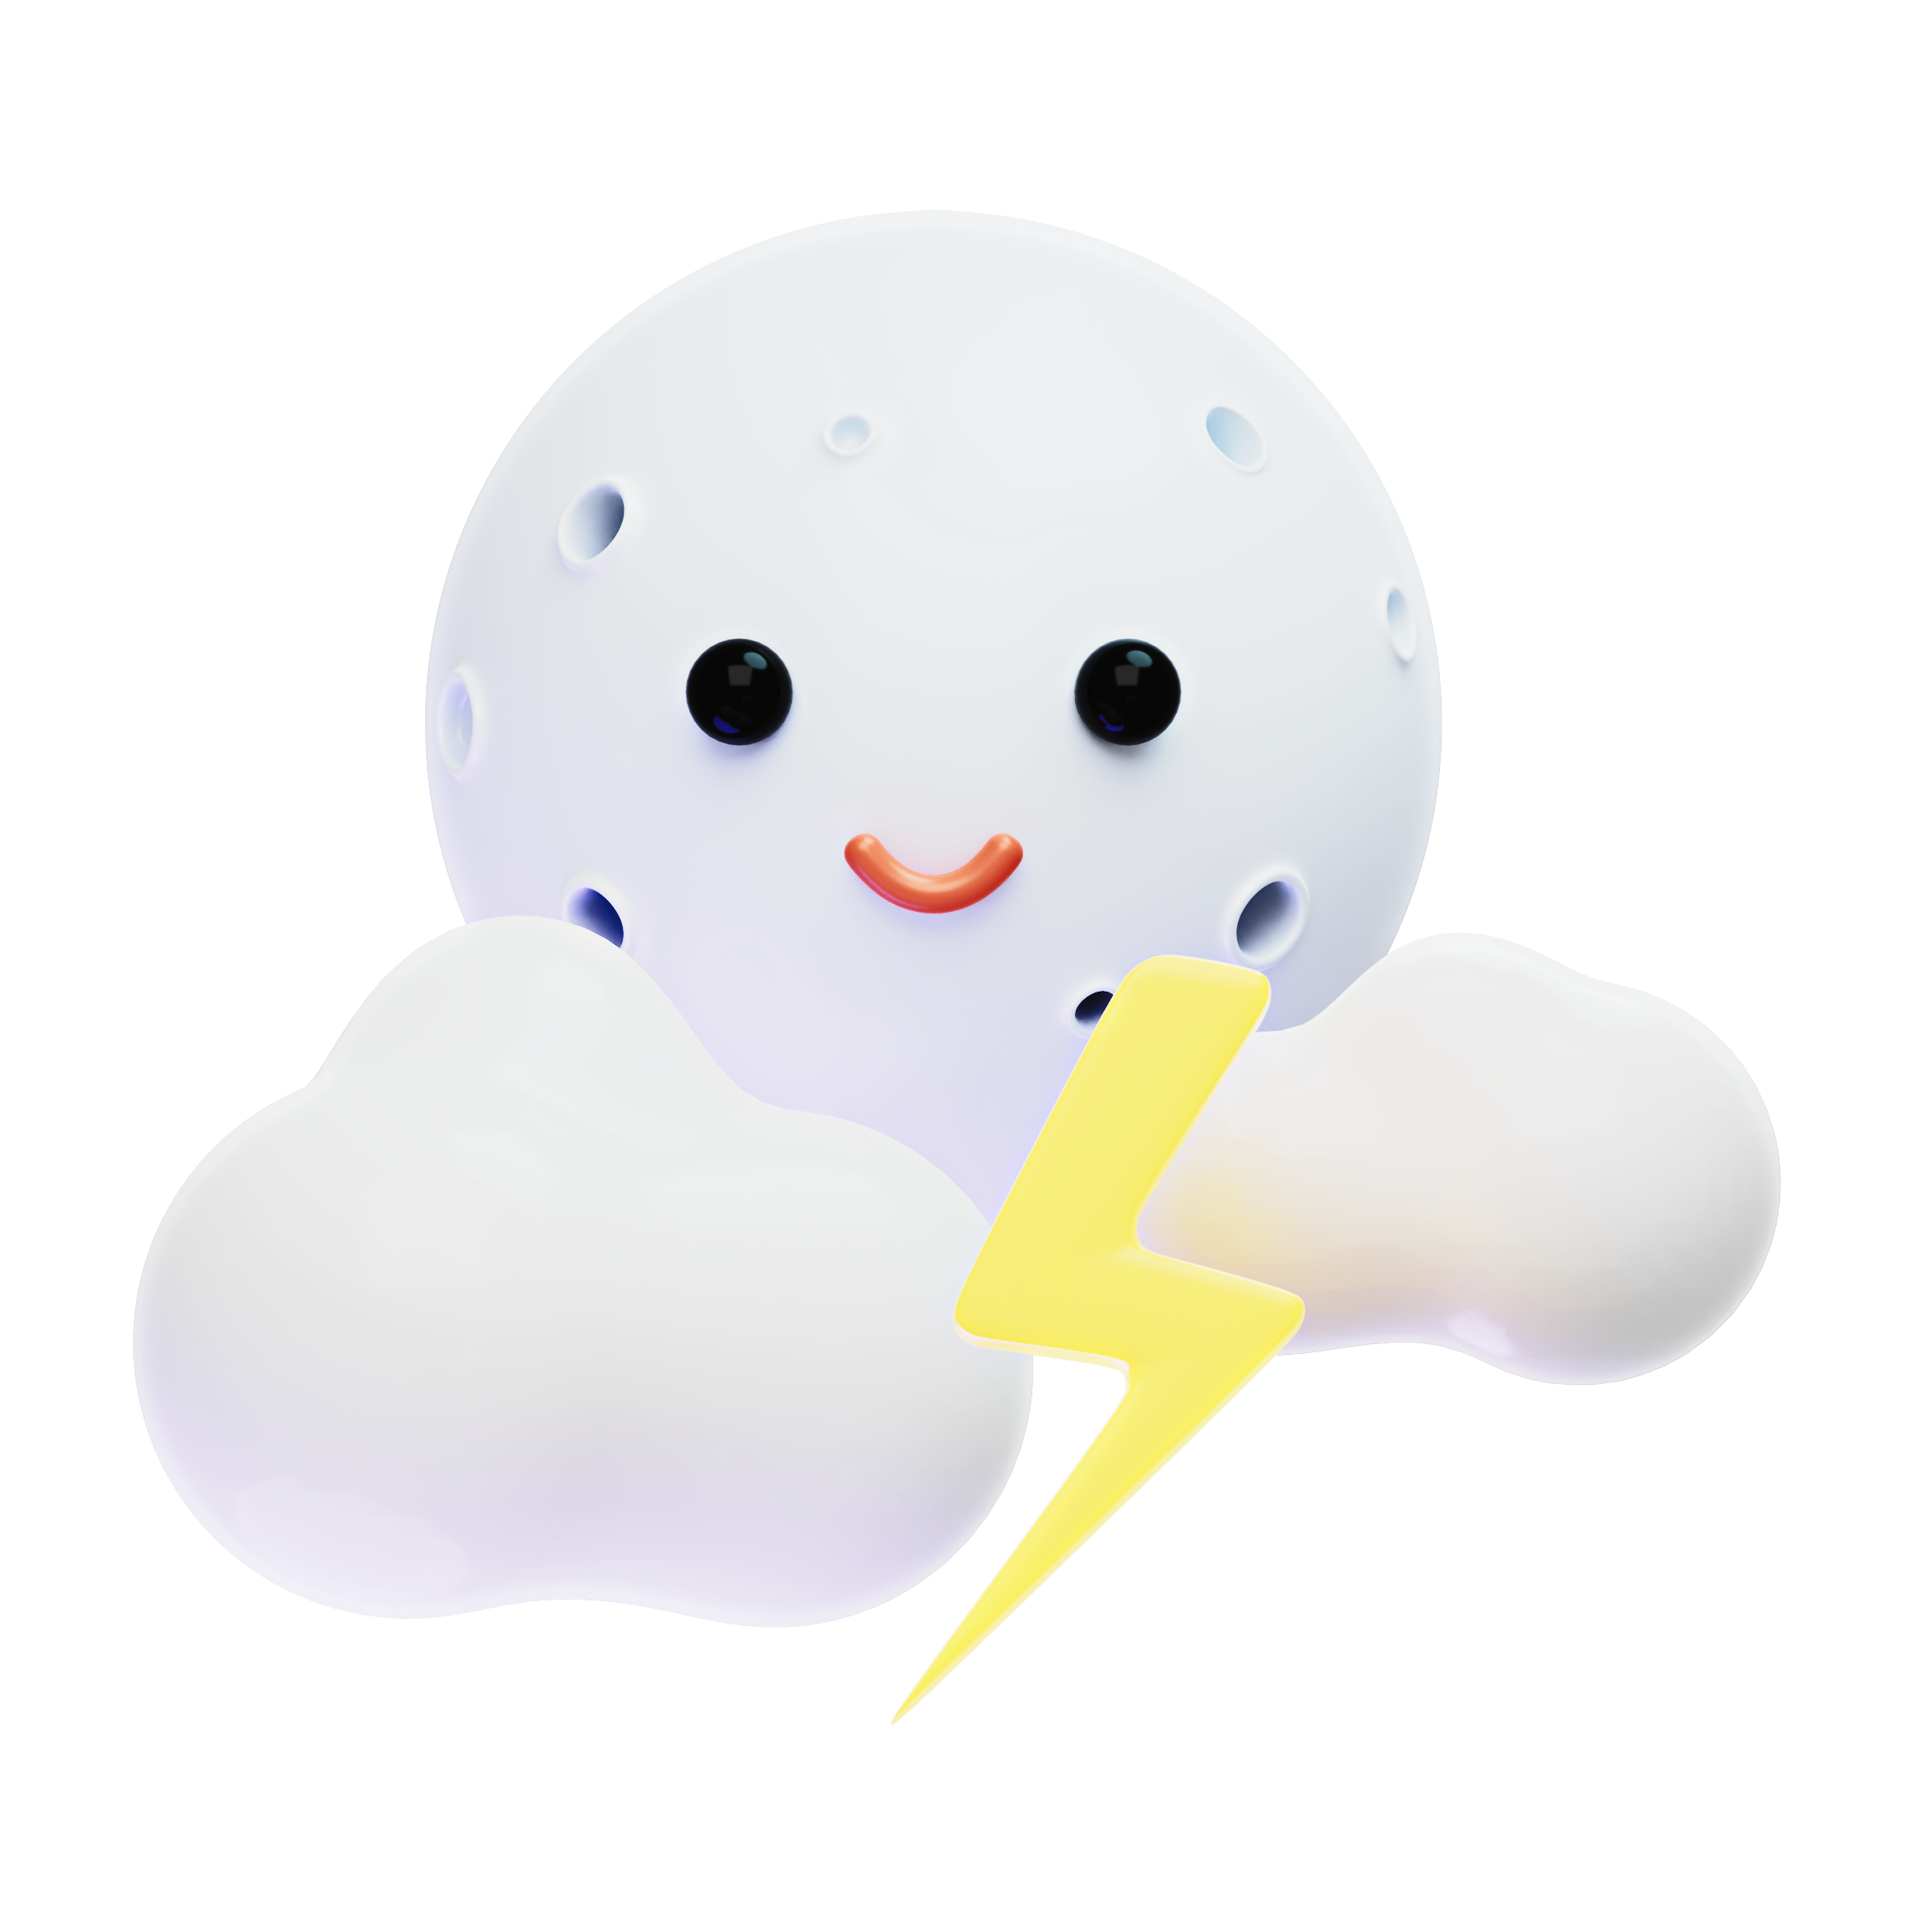
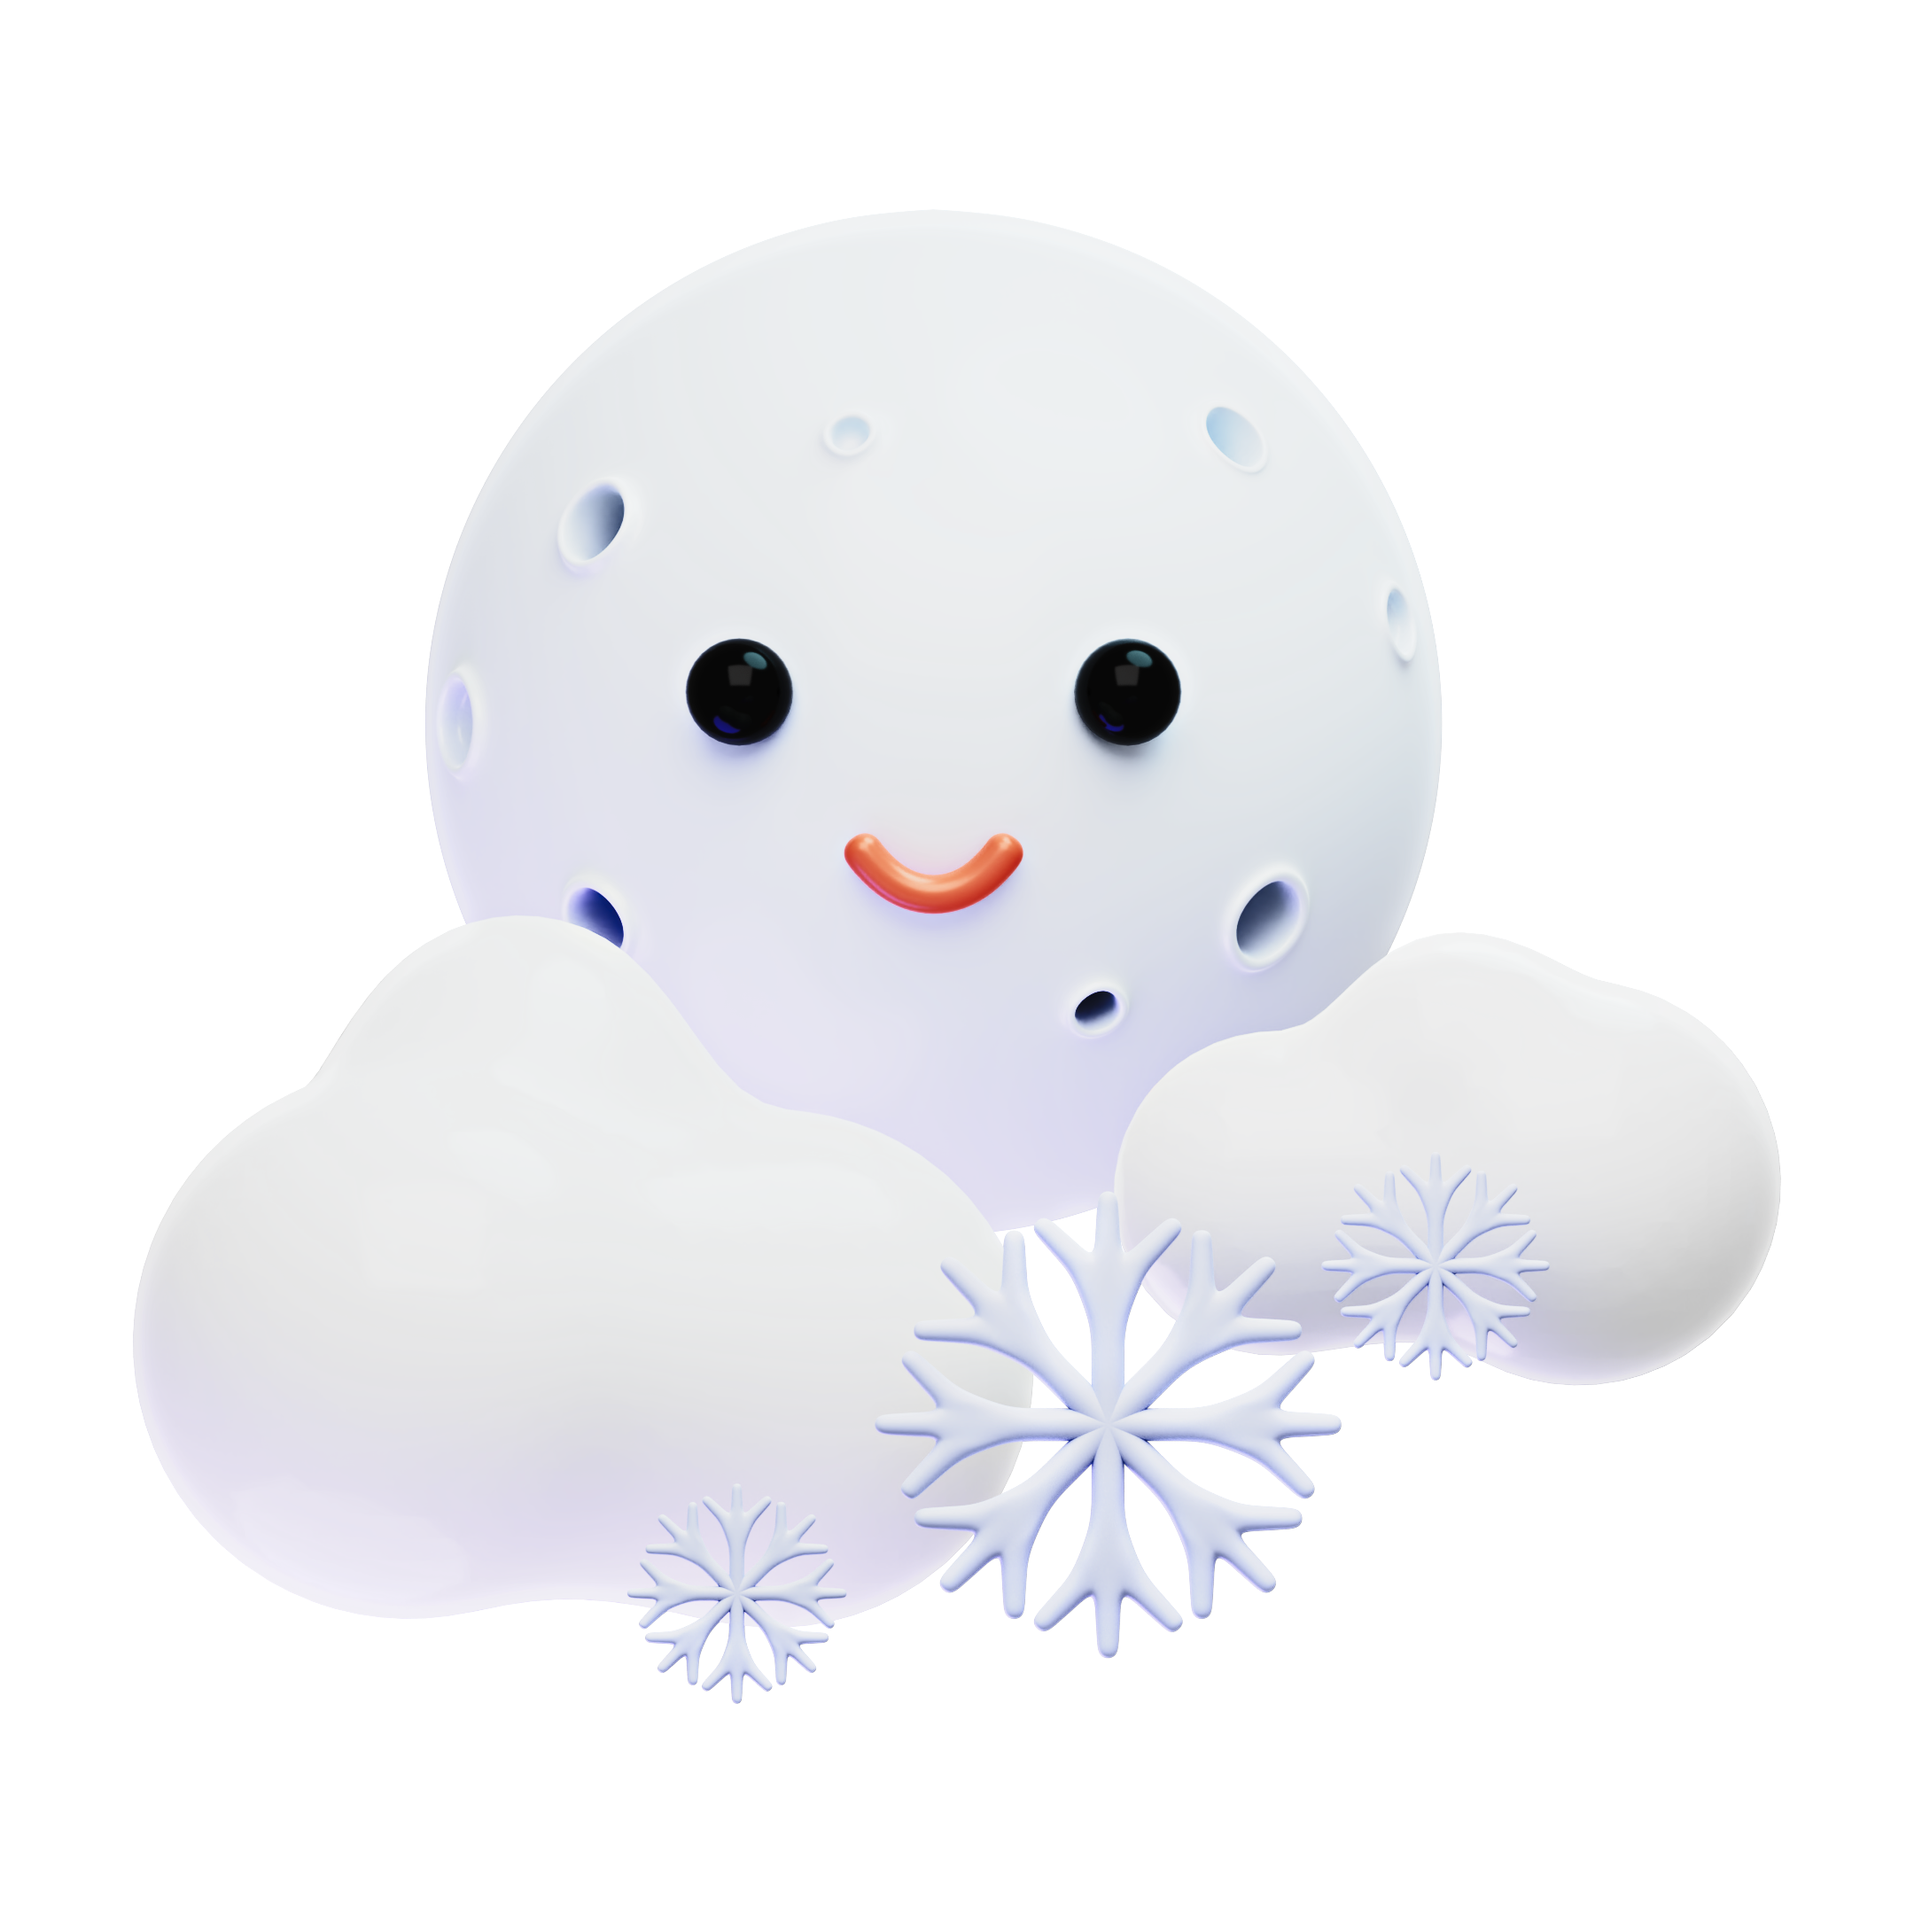
duuslaa

Changed region(s): [[0.4653, 0.4963, 0.8065, 0.8685], [0.3412, 0.8065, 0.4343, 0.8995], [0.4653, 0.8685, 0.4963, 0.8995]]

diff --git a/src/app/Rightsite.jsx b/src/app/Rightsite.jsx
@@ -24,6 +24,8 @@ export default function Rightsite({
         return <img src="/Rain.png" alt="" />;
       case test.includes("cloud"):
         return <img src="/moon.png" alt="" />;
+      case test.includes("snow"):
+        return <img src="/moonSnow.png" alt="" />;
     }
   };
   console.log({ condition });
@@ -31,10 +33,10 @@ export default function Rightsite({
     <div className="bg-[#0F141E]  w-[50vw] h-[100vh] flex justify-center items-center">
       <div className="bg-[rgba(17,24,39)] w-[400px] h-[80vh] rounded-[48px] p-[40px]">
         <div>
-          <p className="flex  text-gray-500 text-lg not-italic font-medium leading-none mt-[10px] ml-[20px]">
+          <p className="flex  text-gray-500 text-lg not-italic font-medium leading-none  ml-[20px] ">
             {date}
           </p>
-          <h1 className="text-[50px] flex font-extrabold text-5xl">
+          <h1 className="text-[50px] flex font-extrabold text-5xl justify-center mt-[40px] h-[90px]">
             {changeCity}
             <svg
               xmlns="http://www.w3.org/2000/svg"
@@ -55,11 +57,11 @@ export default function Rightsite({
         </div>
 
         {/* <Moon moon={moon} setMoon={setMoon} /> */}
-        <div className="m-auto">{Case(condition)}</div>
-        <h2 className="text-gray-600 text-8xl font-extrabold  flex  mt-[16px]  ml-[10px]">
+        <div className="m-auto mt-[30px]">{Case(condition)}</div>
+        <h2 className="text-gray-600 text-8xl font-extrabold  flex  mt-[40px]  ml-[10px]">
           {rweather}
         </h2>
-        <h3 className="text-[#FF8E27] text-2xl font-extrabold ml-[20px] ">
+        <h3 className="text-[#FF8E27] text-2xl font-extrabold ml-[20px] mt-[30px] ">
           {none}
         </h3>
         <Iconsmoon />

diff --git a/src/app/Leftsite.jsx b/src/app/Leftsite.jsx
@@ -37,13 +37,13 @@ export default function Leftsite({
   return (
     <div className="bg-[#F3F4F6]   w-[50vw] h-[100vh] flex justify-center items-center  ">
       <div className="bg-[rgba(255,255,255,0.75)] w-[400px] h-[80vh] rounded-[48px] absolute p-[40px]">
-        <div className="flex justify-start mr-[20px]">
-          <p className=" flex  text-gray-500 text-lg not-italic font-medium leading-none ml-[20px] ">
-            {date}
-          </p>
-        </div>
-        <div className="">
-          <h1 className="text-[50px] flex font-extrabold text-5xl text-black  ">
+        <div className="flex justify-start mr-[20px]"></div>
+        <p className=" flex  text-gray-500 text-lg not-italic font-medium leading-none ml-[20px] ">
+          {date}
+        </p>
+
+        <div className=" ">
+          <h1 className="text-[50px] flex font-extrabold text-5xl text-black mt-[40px] justify-center h-[90px]">
             {changeCity}
             <svg
               className="mt-[15px] "
@@ -74,11 +74,12 @@ export default function Leftsite({
         </div>
 
         {/* <Sun sun={sun} setSunny={setSunny} /> */}
-        {photo()}
-        <h2 className="text-gray-600 text-8xl font-extrabold  flex  mt-[16px]  ml-[10px]">
+        <div className="m-auto mt-[30px]">{photo()}</div>
+
+        <h2 className="text-gray-600 text-8xl font-extrabold  flex  mt-[40px]  ml-[10px]">
           {weather}
         </h2>
-        <h1 className="text-[#FF8E27] text-2xl font-extrabold ml-[20px]">
+        <h1 className="text-[#FF8E27] text-2xl font-extrabold ml-[20px] mt-[30px]">
           {condition}
         </h1>
         <Icons />
